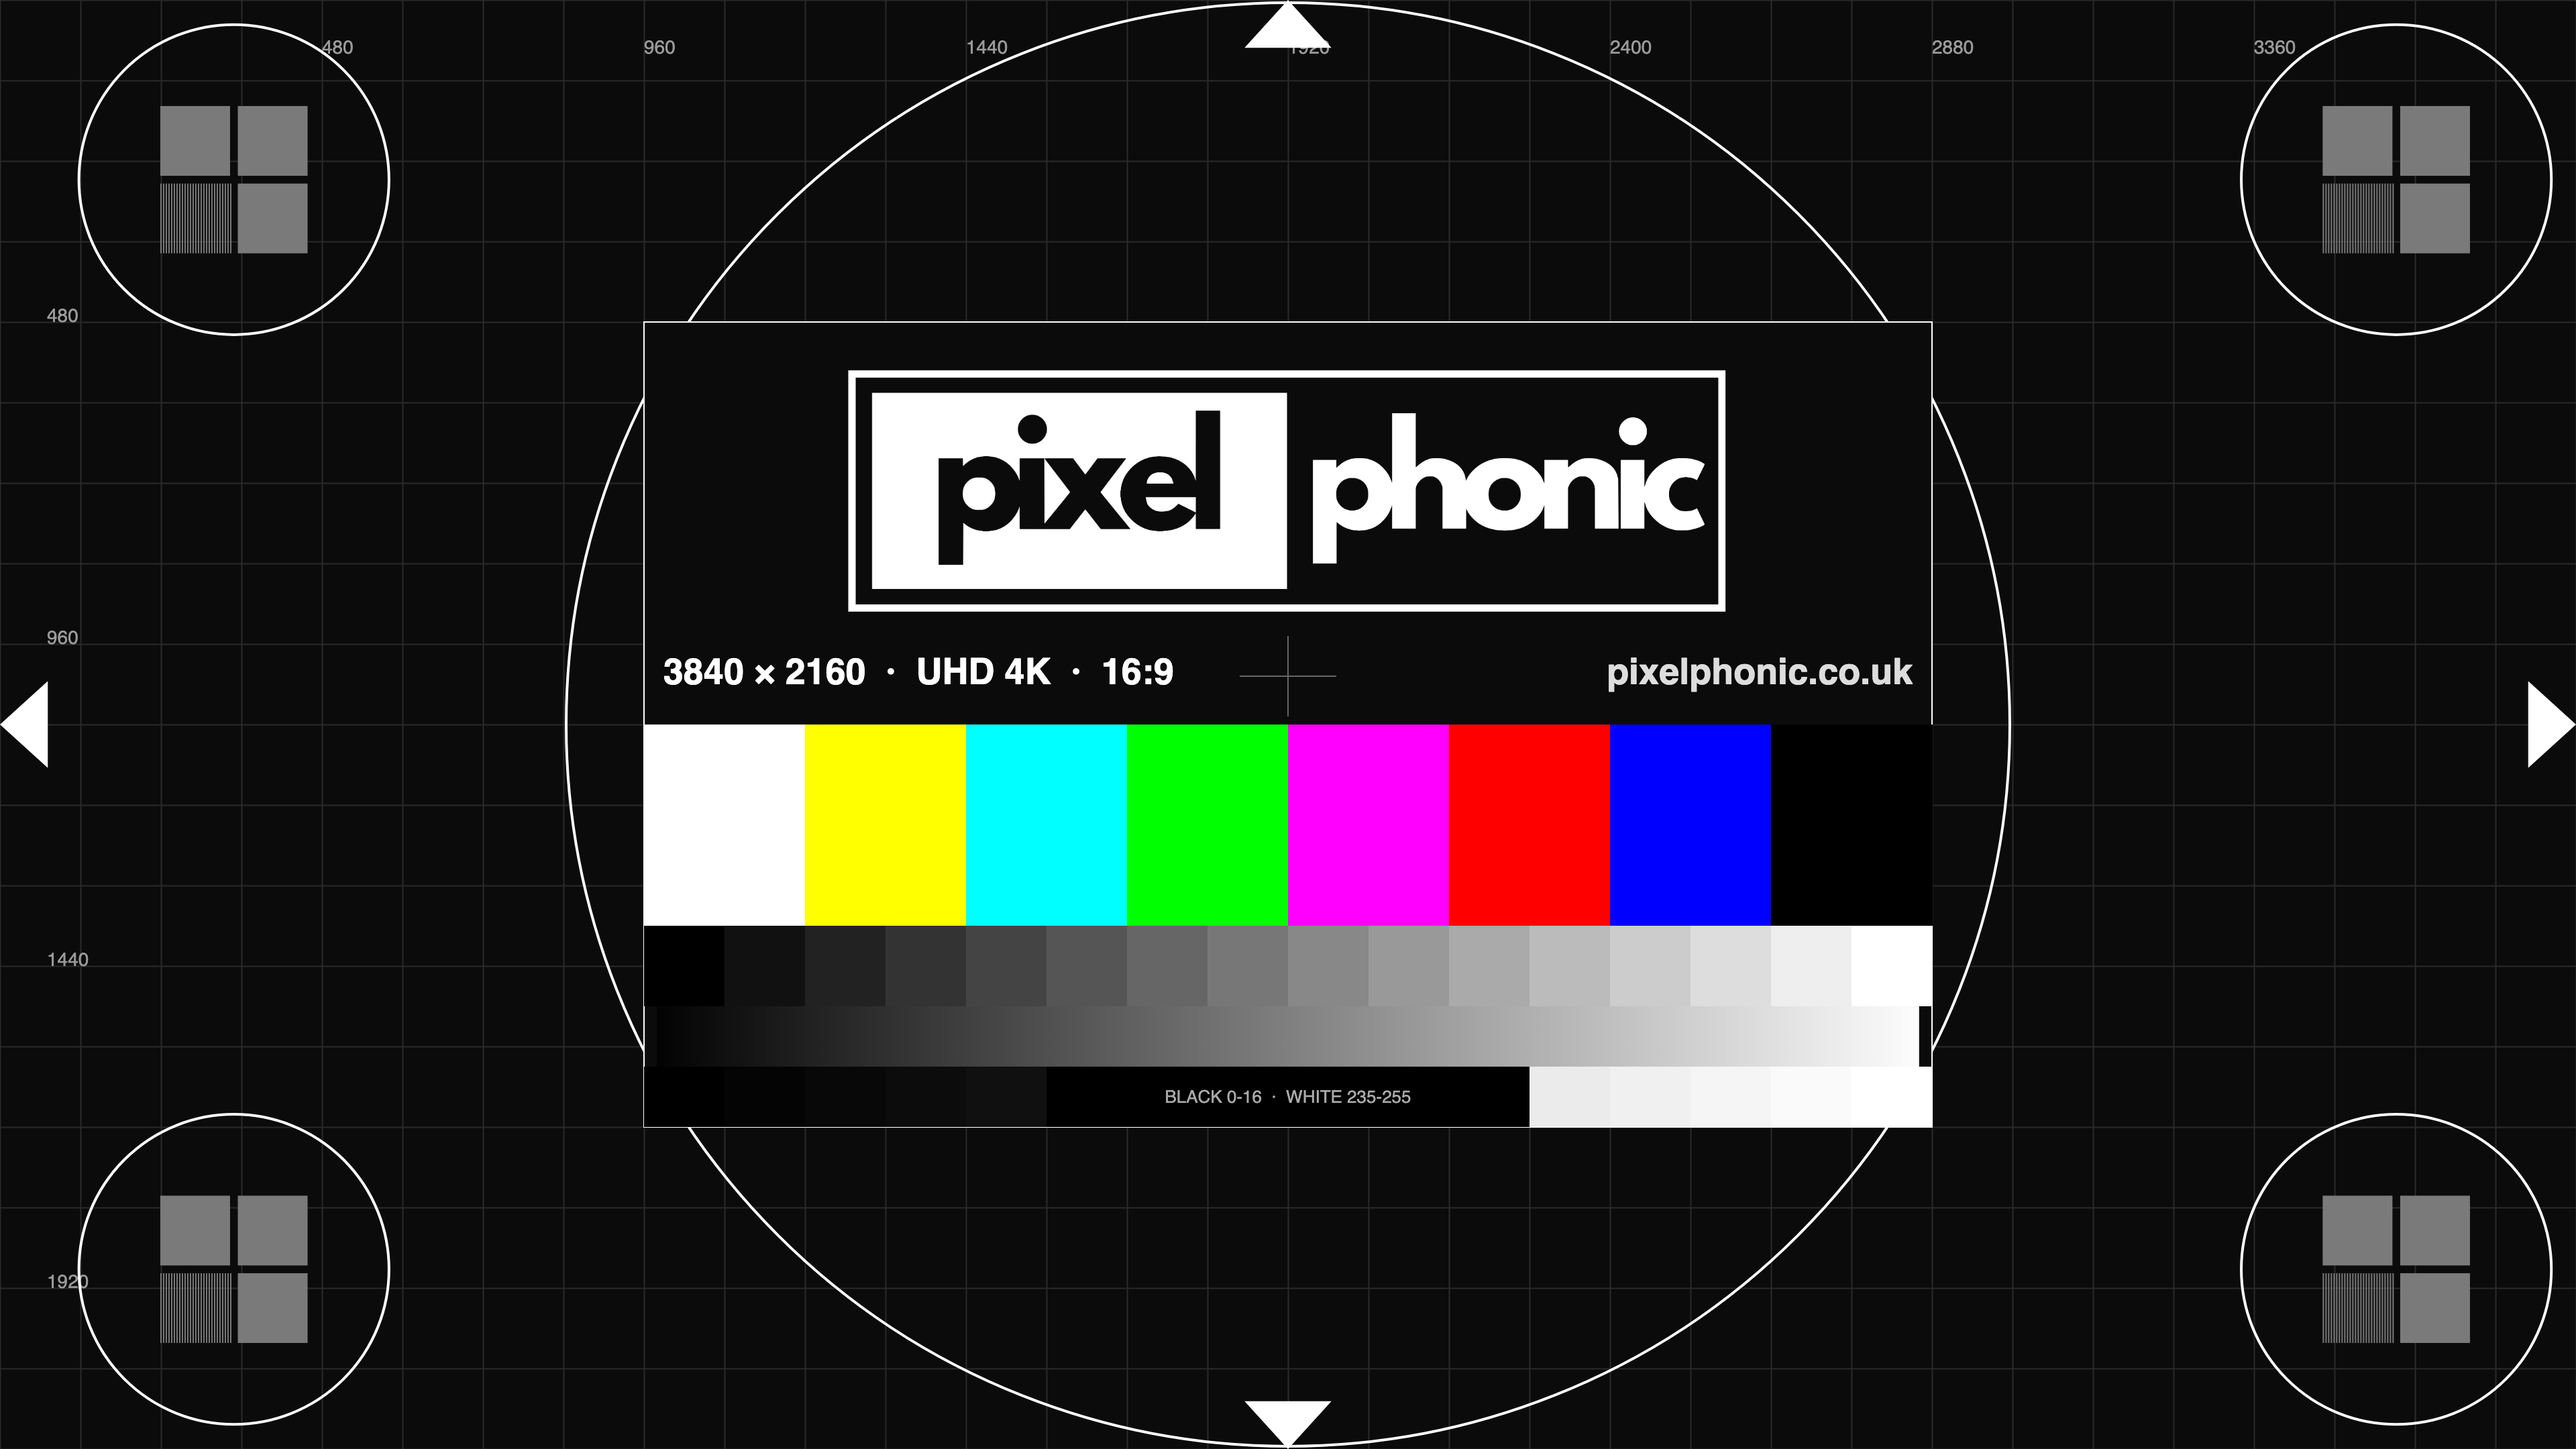
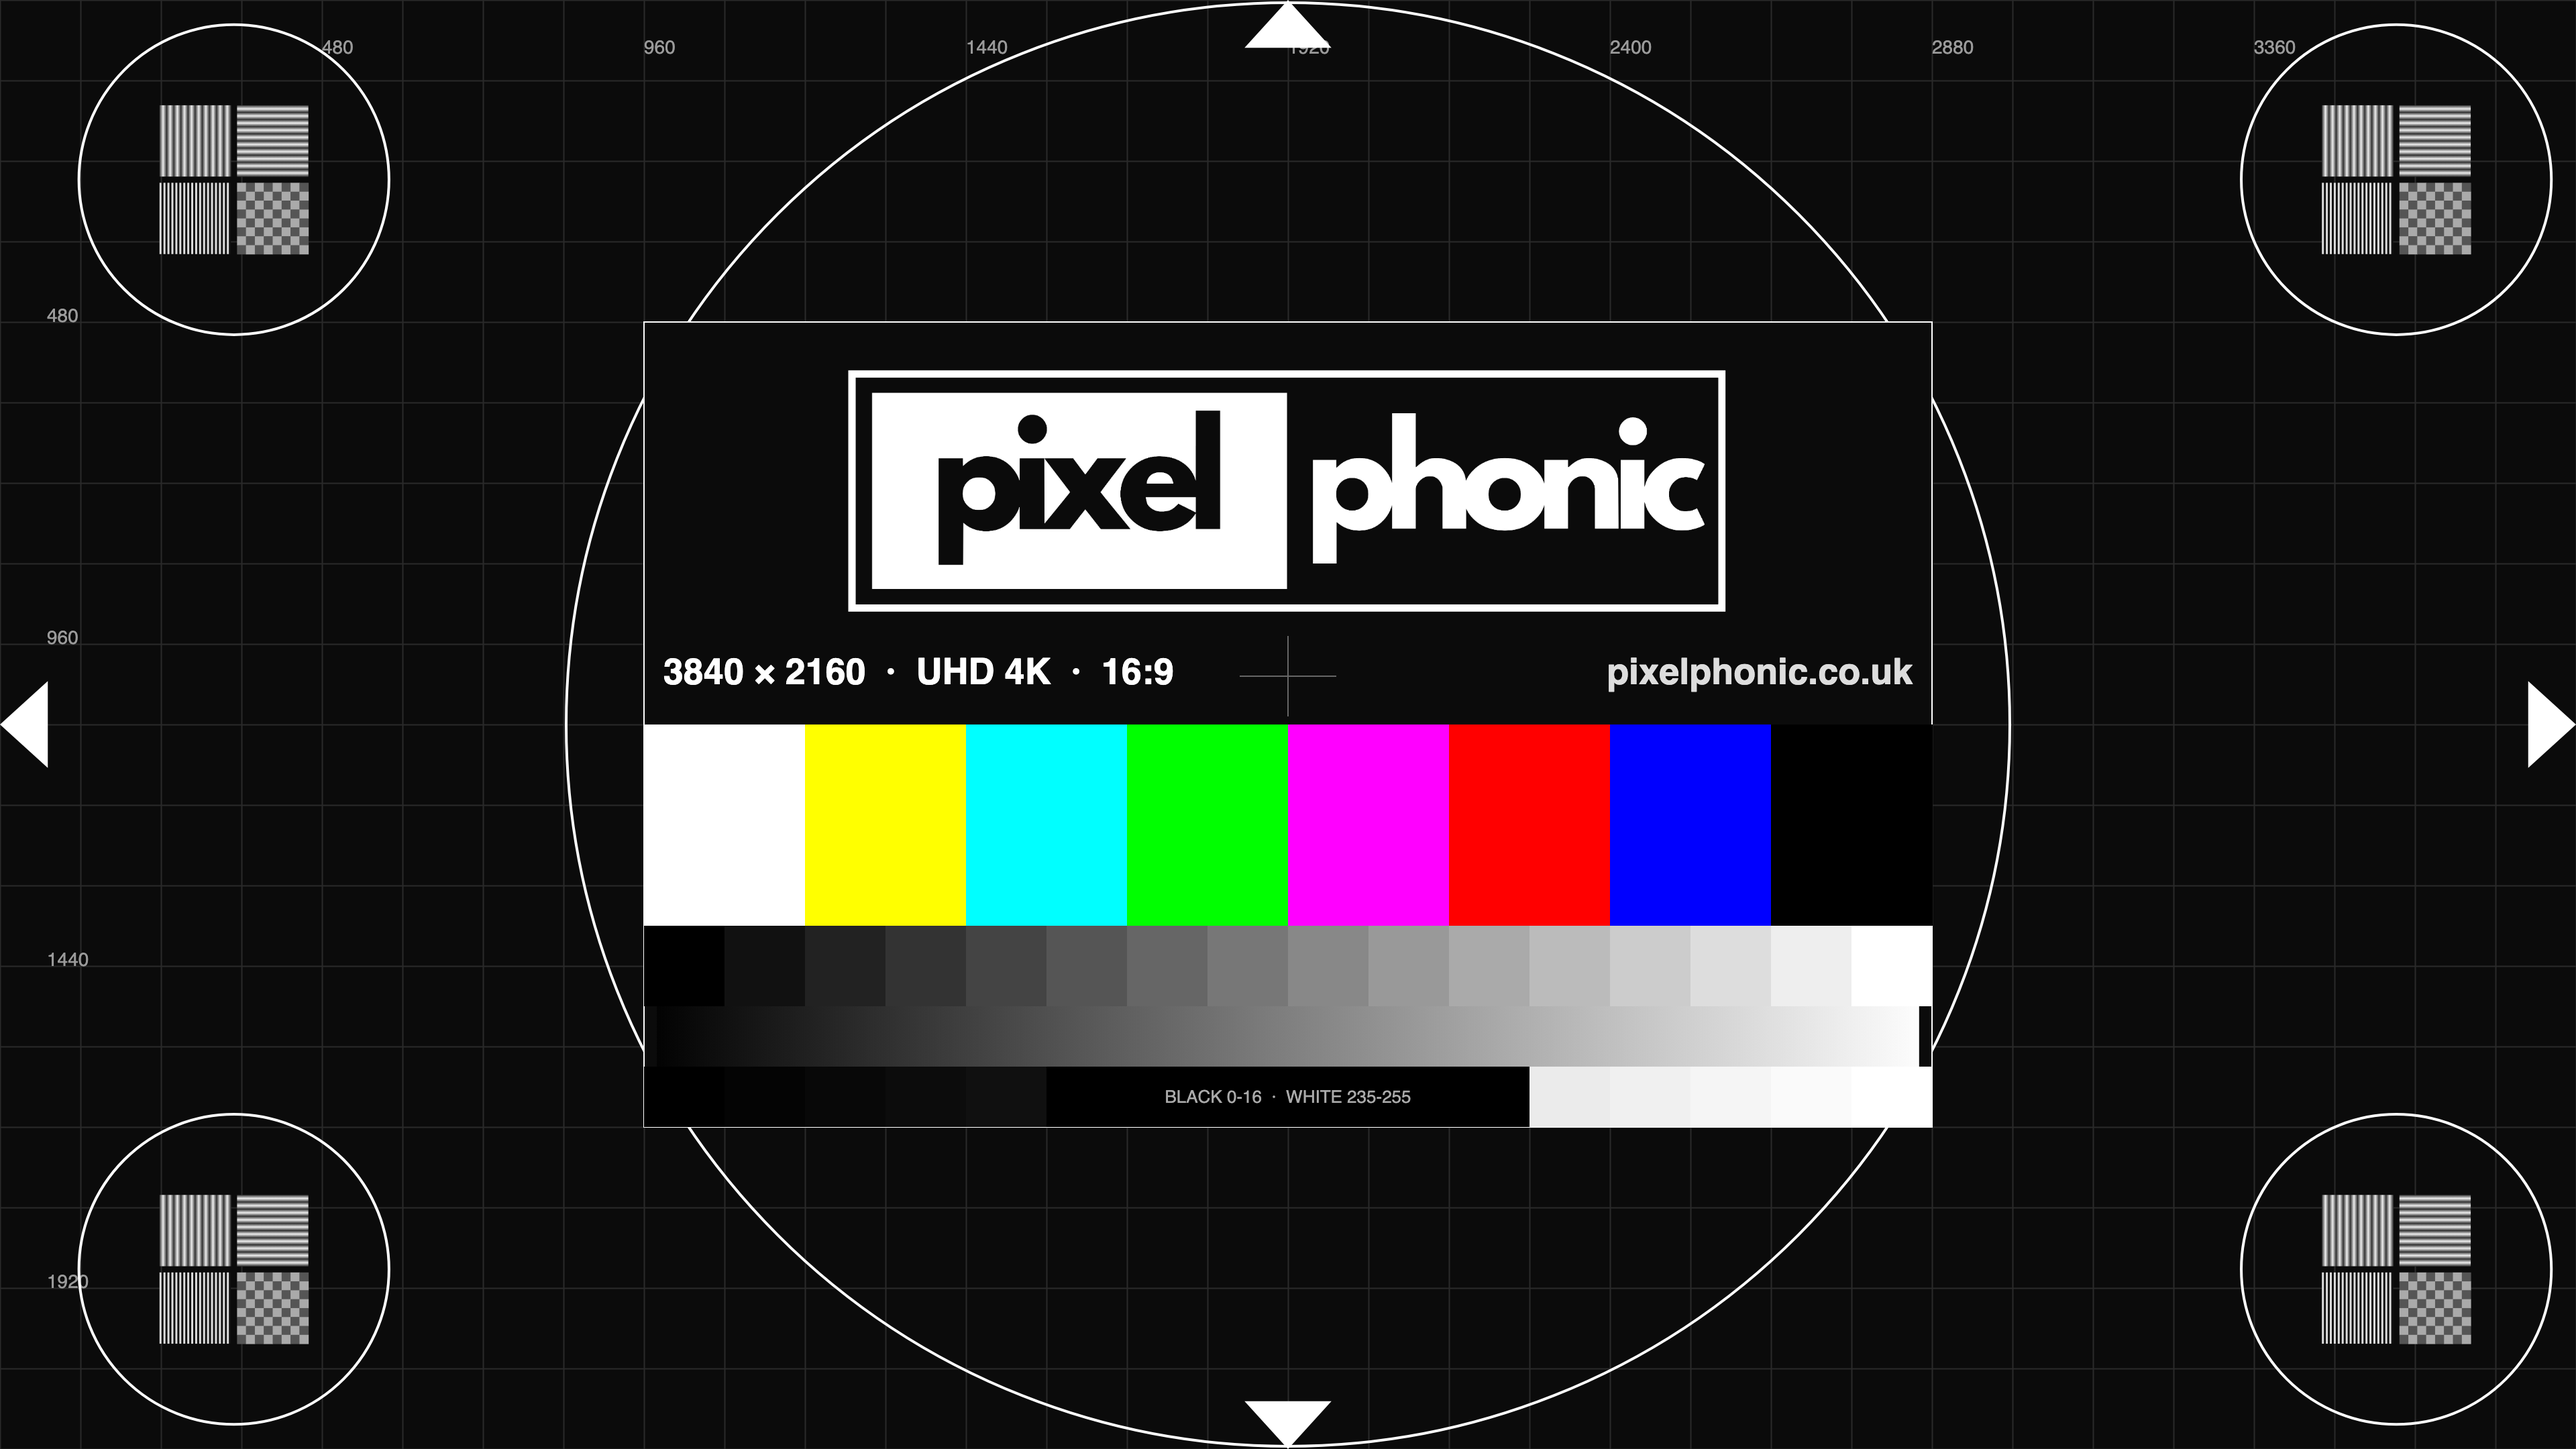
Screens render as lit displays with glow and glare; proper LED keynote backdrop; test card matched to Craig's design

diff --git a/tools/event-images/process.swift b/tools/event-images/process.swift
@@ -11,6 +11,8 @@ import CoreImage.CIFilterBuiltins
 
 struct Replace: Codable { var quad: [[Double]]; var image: String; var brightness: Double?; var soften: Double?
   var feather: Double?    // mask edge softness in pixels (default 0.9)
+  var glass: Double?      // how much room glare shows on the screen surface (default 0.15)
+  var emit: Double?       // a lit display: brighter than the room, a little of the original glass/reflections kept, light spilling round the edges
   var overlay: Bool?      // lay the content over the photo using its own transparency (print on fabric, signage)
   var keepDark: Double?   // keep dark things in front of the screen (stands, heads): only replace pixels brighter than this
 }
@@ -77,7 +79,7 @@ for r in scene.replace ?? [] {
   content = p.outputImage!
   // Screens photographed by a phone are a little soft and lifted; match that.
   content = content.clampedToExtent().applyingGaussianBlur(sigma: r.soften ?? 0.8).cropped(to: content.extent)
-  let b = CIFilter.colorControls(); b.inputImage = content; b.brightness = Float(r.brightness ?? 0) ; b.contrast = 0.92; content = b.outputImage!
+  let b = CIFilter.colorControls(); b.inputImage = content; b.brightness = Float(r.brightness ?? 0) ; b.contrast = r.emit == nil ? 0.92 : 1.0; content = b.outputImage!
   // Mask: the quad itself, edges feathered by a pixel so it sits inside the bezel.
   let m = CIFilter.perspectiveTransform()
   m.inputImage = CIImage(color: .white).cropped(to: CGRect(x: 0, y: 0, width: 100, height: 100))
@@ -89,8 +91,27 @@ for r in scene.replace ?? [] {
     let mul = CIFilter.multiplyCompositing(); mul.inputImage = bright; mul.backgroundImage = mask; mask = mul.outputImage!.cropped(to: photo.extent)
   }
   if r.overlay == true { photo = content.composited(over: photo).cropped(to: photo.extent); continue }
+  if let e = r.emit {
+    // Light output: lift the content, then keep a trace of the glass so it reads as a real screen.
+    let ex = CIFilter.exposureAdjust(); ex.inputImage = content; ex.ev = Float(0.35 * e); content = ex.outputImage!
+    let glass = CIFilter.screenBlendMode(); let qq = r.quad.map { pt($0) }; let qwid = hypot(qq[1].x - qq[0].x, qq[1].y - qq[0].y)
+    // only broad glare from the room survives, never the old picture: blur it far past legibility
+    glass.inputImage = photo.applyingFilter("CIColorControls", parameters: ["inputSaturation": 0, "inputBrightness": -0.3]).clampedToExtent().applyingGaussianBlur(sigma: max(6, qwid * 0.12)).cropped(to: photo.extent); glass.backgroundImage = content
+    let mixg = CIFilter.dissolveTransition(); mixg.inputImage = content; mixg.targetImage = glass.outputImage!; mixg.time = Float(r.glass ?? 0.15); content = mixg.outputImage!.cropped(to: photo.extent)
+  }
   let bl = CIFilter.blendWithMask(); bl.inputImage = content; bl.backgroundImage = photo; bl.maskImage = mask
   photo = bl.outputImage!.cropped(to: photo.extent)
+  if let e = r.emit {
+    // Bloom and spill: the screen's own light glowing into the bezel, set and haze around it.
+    let q = r.quad.map { pt($0) }; let qw = hypot(q[1].x - q[0].x, q[1].y - q[0].y)
+    let lit = CIFilter.blendWithMask(); lit.inputImage = content; lit.backgroundImage = CIImage(color: .black).cropped(to: photo.extent); lit.maskImage = mask
+    for (sig, amt) in [(max(3, qw * 0.012), 0.22), (max(8, qw * 0.06), 0.20)] {
+      let gl = lit.outputImage!.clampedToExtent().applyingGaussianBlur(sigma: sig).cropped(to: photo.extent)
+      let k = CGFloat(amt * e); let cm = CIFilter.colorMatrix(); cm.inputImage = gl
+      cm.rVector = CIVector(x: k, y: 0, z: 0, w: 0); cm.gVector = CIVector(x: 0, y: k, z: 0, w: 0); cm.bVector = CIVector(x: 0, y: 0, z: k, w: 0); cm.aVector = CIVector(x: 0, y: 0, z: 0, w: 0)
+      let ad = CIFilter.additionCompositing(); ad.inputImage = cm.outputImage!; ad.backgroundImage = photo; photo = ad.outputImage!.cropped(to: photo.extent)
+    }
+  }
 }
 
 // 2. Soften small areas (distant logos, printed running orders) like natural defocus.

diff --git a/tools/event-images/screens/testcard.html b/tools/event-images/screens/testcard.html
@@ -19,9 +19,12 @@ g.beginPath();g.arc(W/2,H/2,R*0.5-4,0,7);g.stroke();
 const cr=R*0.107,co=R*0.124;
 for(const [x,y] of [[co+cr*0.0,co],[W-co,co],[co,H-co],[W-co,H-co]]){const X=x===co+cr*0?co+cr*0.35:x,Y=y;
  g.strokeStyle='#fff';g.beginPath();g.arc(X,Y,cr,0,7);g.stroke();
- const b=cr*0.45,gp=cr*0.05;g.fillStyle='#7a7a7a';
- g.fillRect(X-b-gp/2,Y-b-gp/2,b,b);g.fillRect(X+gp/2,Y-b-gp/2,b,b);g.fillRect(X+gp/2,Y+gp/2,b,b);
- for(let i=0;i<b;i+=Math.max(2,4*u)){g.fillRect(X-b-gp/2+i,Y+gp/2,Math.max(1,2*u),b)}}
+ const b=cr*0.46,gp=cr*0.04,x0=X-b-gp/2,y0=Y-b-gp/2,x1=X+gp/2,y1=Y+gp/2;
+ // top-left: vertical sweep, top-right: horizontal sweep, bottom-left: fine lines, bottom-right: checkerboard
+ const n=10;for(let i=0;i<n;i++){const gr=g.createLinearGradient(x0+i*b/n,0,x0+(i+1)*b/n,0);gr.addColorStop(0,'#333');gr.addColorStop(.5,'#eee');gr.addColorStop(1,'#333');g.fillStyle=gr;g.fillRect(x0+i*b/n,y0,b/n+.5,b)}
+ for(let i=0;i<n;i++){const gr=g.createLinearGradient(0,y0+i*b/n,0,y0+(i+1)*b/n);gr.addColorStop(0,'#333');gr.addColorStop(.5,'#eee');gr.addColorStop(1,'#333');g.fillStyle=gr;g.fillRect(x1,y0+i*b/n,b,b/n+.5)}
+ g.fillStyle='#111';g.fillRect(x0,y1,b,b);g.fillStyle='#ddd';const lw=Math.max(1,b/36);for(let x=0;x<b;x+=lw*2)g.fillRect(x0+x,y1,lw,b);
+ const cs=b/8;for(let a=0;a<8;a++)for(let c2=0;c2<8;c2++){g.fillStyle=(a+c2)%2?'#555':'#aaa';g.fillRect(x1+a*cs,y1+c2*cs,cs+.5,cs+.5)}}
 g.fillStyle='#fff';const t=R*0.03;
 g.beginPath();g.moveTo(W/2-t,t*1.1);g.lineTo(W/2+t,t*1.1);g.lineTo(W/2,0);g.fill();
 g.beginPath();g.moveTo(W/2-t,H-t*1.1);g.lineTo(W/2+t,H-t*1.1);g.lineTo(W/2,H);g.fill();

diff --git a/index.html b/index.html
@@ -91,7 +91,7 @@
 
     <section class="scene  tape-blue" aria-label="Exhibitions">
       <div class="sticky">
-        <div class="shot"><img src="assets/photo-exhibitions.jpg?v=22" alt="An exhibition stand with the Pixel Phonic test card on its LED wall and portrait screens" loading="lazy"><span class="big">Exhibitions</span></div>
+        <div class="shot"><img src="assets/photo-exhibitions.jpg?v=23" alt="An exhibition stand with the Pixel Phonic test card on its LED wall and portrait screens" loading="lazy"><span class="big">Exhibitions</span></div>
         <div class="copy">
           <span class="num">01</span>
           <h3>Exhibitions</h3>
@@ -103,7 +103,7 @@
 
     <section class="scene flip tape-pink" aria-label="Conferences">
       <div class="sticky">
-        <div class="shot"><img src="assets/photo-conferences.jpg?v=22" alt="The tech desk at a conference: Pixel Phonic test card on the stage screens and multiview, camera feeds and stage timer" loading="lazy"><span class="big">Conferences</span></div>
+        <div class="shot"><img src="assets/photo-conferences.jpg?v=23" alt="The tech desk at a conference: Pixel Phonic test card on the stage screens and multiview, camera feeds and stage timer" loading="lazy"><span class="big">Conferences</span></div>
         <div class="copy">
           <span class="num">02</span>
           <h3>Conferences</h3>

diff --git a/tools/event-images/screens/backdrop-pp.html b/tools/event-images/screens/backdrop-pp.html
@@ -1,5 +1,6 @@
-<!doctype html><html><body style="margin:0;width:1160px;height:620px;overflow:hidden;position:relative;background:#000">
-<img src="../../../reference/generated/stage-wide.png" style="position:absolute;left:-731px;top:-332px;width:3072px">
-<img src="pp-logo.png" style="position:absolute;left:150px;top:150px;width:420px;opacity:.95">
-<div style="position:absolute;left:150px;top:290px;width:420px;text-align:center;color:#fff;font:600 30px Helvetica;letter-spacing:.4em;opacity:.85">LIVE EVENTS</div>
+<!doctype html><html><body style="margin:0;width:1534px;height:820px;overflow:hidden;position:relative;background:#000">
+<img src="../../../reference/generated/keynote-backdrop.png" style="position:absolute;left:-1236px;top:-270px;width:3072px">
+<div style="position:absolute;left:110px;top:150px;width:640px;text-align:center;mix-blend-mode:screen;filter:drop-shadow(0 0 18px rgba(120,170,255,.9)) drop-shadow(0 0 40px rgba(60,120,255,.6))">
+<img src="pp-logo.png" style="width:640px;display:block;opacity:.92">
+<div style="color:#dfe9ff;font:600 34px Helvetica;letter-spacing:.5em;margin-top:26px;opacity:.85">LIVE EVENTS</div></div>
 </body></html>

diff --git a/tools/event-images/screens/logo-print.html b/tools/event-images/screens/logo-print.html
@@ -1,1 +1,1 @@
-<!doctype html><html><body style="margin:0;width:1200px;height:300px;background:transparent;display:flex;align-items:center;justify-content:center"><img src="pp-logo.png" style="height:220px;filter:invert(1) brightness(.35);opacity:.9"></body></html>
+<!doctype html><html><body style="margin:0;width:1200px;height:300px;background:transparent;display:flex;align-items:center;justify-content:center"><img src="pp-logo.png" style="height:220px;filter:invert(1) brightness(.42);opacity:.72"></body></html>

diff --git a/tools/event-images/screens/bdbot.html b/tools/event-images/screens/bdbot.html
@@ -1,0 +1,1 @@
+<html><body style='margin:0;width:1534px;height:153px;overflow:hidden;position:relative'><img src='backdrop-pp.png' style='position:absolute;left:0;top:-667px'></body></html>

diff --git a/tools/event-images/screens/bdtop.html b/tools/event-images/screens/bdtop.html
@@ -1,0 +1,1 @@
+<html><body style='margin:0;width:1534px;height:667px;overflow:hidden;position:relative'><img src='backdrop-pp.png' style='position:absolute;left:0;top:0'></body></html>
